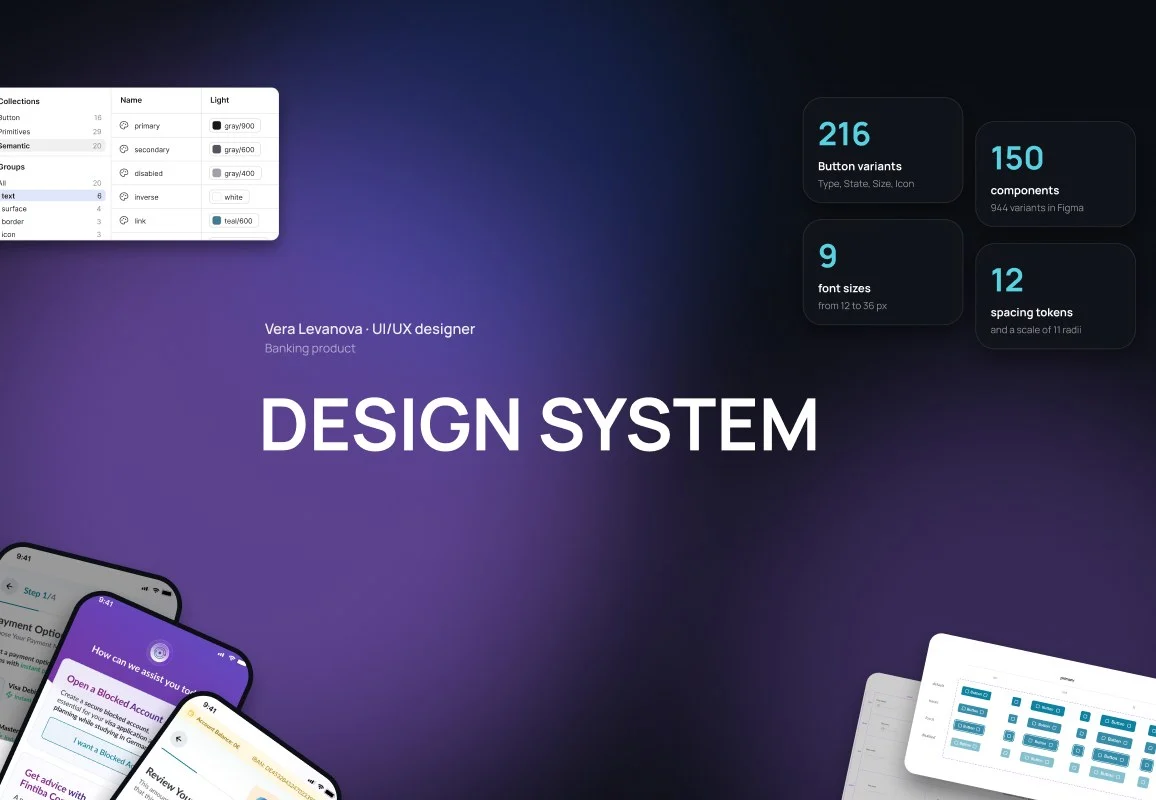
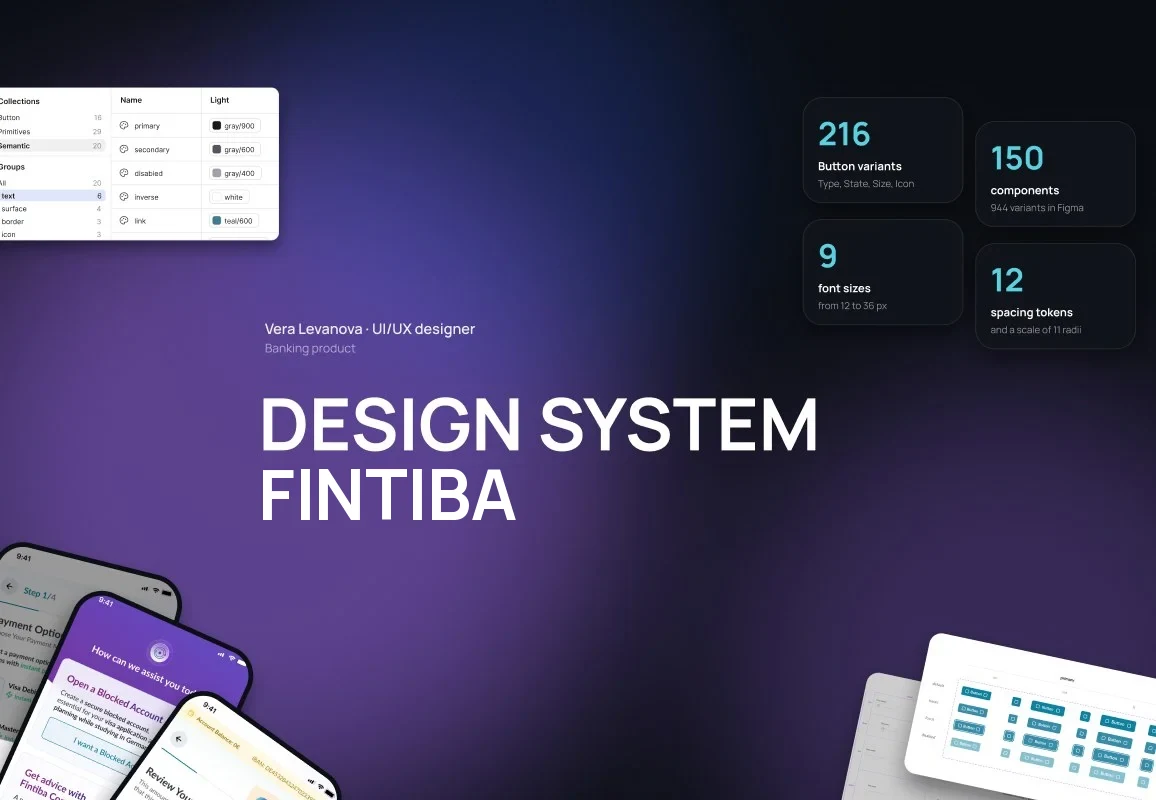
EN: add Fintiba to design system cover on home and Other cases
Claude-Session: https://claude.ai/code/session_011pq2ADq6rPTZrVGSK3qx6v

Changed region(s): [[0.218, 0.5625, 0.4671, 0.6562]]

diff --git a/en/cases/login.html b/en/cases/login.html
@@ -344,7 +344,7 @@
           <span class="lg-more__tags"><span>Fintech</span><span>UI/UX</span><span>Web + Mobile</span></span>
         </a></li>
         <li><a class="lg-more__card" href="design-system.html">
-          <span class="lg-more__img"><img src="../../assets/img/cover-ds-en.webp?v=1793467786" width="1156" height="800" alt="" loading="lazy"></span>
+          <span class="lg-more__img"><img src="../../assets/img/cover-ds-en.webp?v=1793500000" width="1156" height="800" alt="" loading="lazy"></span>
           <h3>Design system</h3>
           <p>Tokens, 150 components and 944 variants for a banking product.</p>
           <span class="lg-more__tags"><span>Fintech</span><span>Design System</span><span>Figma</span></span>

diff --git a/en/cases/onboarding.html b/en/cases/onboarding.html
@@ -499,7 +499,7 @@
           <span class="lg-more__tags"><span>Fintech</span><span>UI/UX</span><span>Web + Mobile</span></span>
         </a></li>
         <li><a class="lg-more__card" href="design-system.html">
-          <span class="lg-more__img"><img src="../../assets/img/cover-ds-en.webp?v=1793467786" width="1156" height="800" alt="" loading="lazy"></span>
+          <span class="lg-more__img"><img src="../../assets/img/cover-ds-en.webp?v=1793500000" width="1156" height="800" alt="" loading="lazy"></span>
           <h3>Design system</h3>
           <p>Tokens, 150 components and 944 variants for a banking product.</p>
           <span class="lg-more__tags"><span>Fintech</span><span>Design System</span><span>Figma</span></span>

diff --git a/en/cases/transfers.html b/en/cases/transfers.html
@@ -308,7 +308,7 @@
       <h2 id="more-title" class="lg-more__h"><em>Other</em> cases</h2>
       <ul class="lg-more__grid">
         <li><a class="lg-more__card" href="design-system.html">
-          <span class="lg-more__img"><img src="../../assets/img/cover-ds-en.webp?v=1793467786" width="1156" height="800" alt="" loading="lazy"></span>
+          <span class="lg-more__img"><img src="../../assets/img/cover-ds-en.webp?v=1793500000" width="1156" height="800" alt="" loading="lazy"></span>
           <h3>Design system</h3>
           <p>Tokens, 150 components and 944 variants for a banking product.</p>
           <span class="lg-more__tags"><span>Fintech</span><span>Design System</span><span>Figma</span></span>

diff --git a/en/index.html b/en/index.html
@@ -76,7 +76,7 @@
 
           <a class="case-card" href="cases/design-system.html">
             <span class="case-num">02</span>
-            <img class="cover" src="../assets/img/cover-ds-en.webp?v=1793467786" width="1156" height="800" alt="Case cover: Fintiba design system, components and numbers" loading="lazy">
+            <img class="cover" src="../assets/img/cover-ds-en.webp?v=1793500000" width="1156" height="800" alt="Case cover: Fintiba design system, components and numbers" loading="lazy">
             <div class="body">
               <div class="tags"><span class="tag">Design System</span><span class="tag">Figma</span><span class="tag">Atomic</span></div>
               <h3>Design system</h3>
